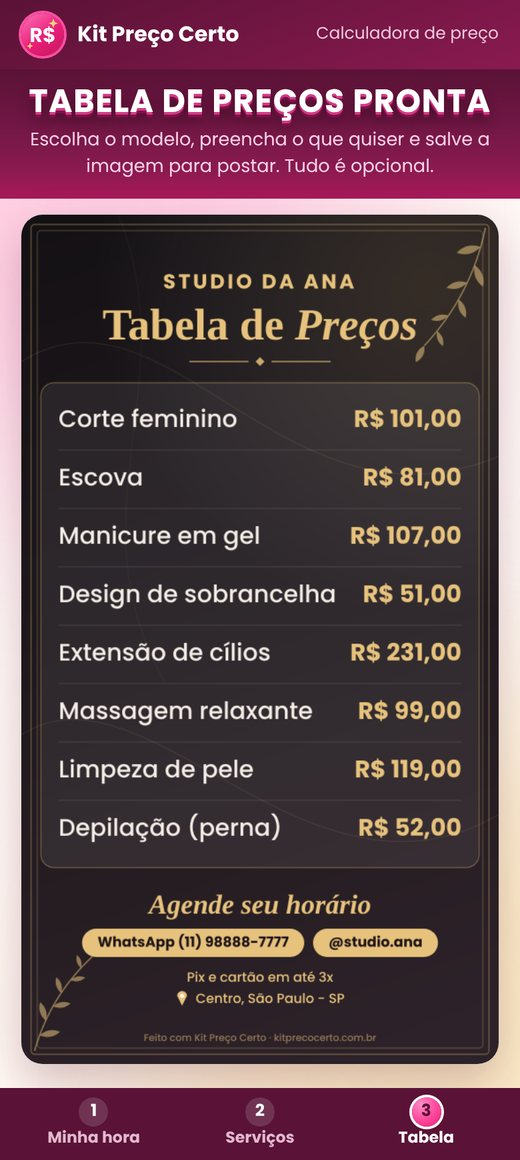
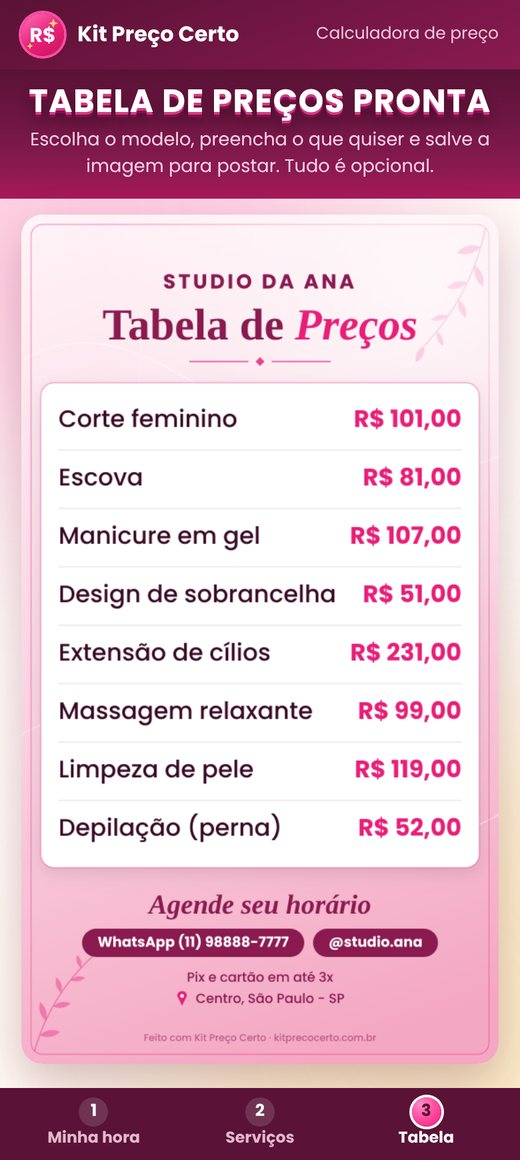
Passo 3 em Rosa; destaque branco passa para 'Sem prejuizo' e 'Personalizada' fica no estilo padrao
Claude-Session: https://claude.ai/code/session_01VVXSWQenri3WwETC67snQx

diff --git a/index.html b/index.html
@@ -82,7 +82,7 @@
           <p class="why"><b>Será que o seu preço de hoje paga o serviço inteiro?</b> Tempo, material, taxas, lucro... a calculadora mostra o valor certo e <b>quais serviços podem estar te dando prejuízo</b>.</p>
           <p class="out">Você descobre o preço certo, com lucro</p></li>
         <li><span class="n">3</span><h3>Tabela de Preços</h3><p class="q">Como mostrar os preços às clientes?</p>
-          <div class="sph"><img src="passo3.jpg?v=3" width="520" height="1160" alt="Tela do passo 3 da calculadora com a tabela de preços pronta para salvar (valores de exemplo)" loading="lazy"></div>
+          <div class="sph"><img src="passo3.jpg?v=4" width="520" height="1160" alt="Tela do passo 3 da calculadora com a tabela de preços pronta para salvar (valores de exemplo)" loading="lazy"></div>
           <p class="why"><b>Pronta para postar!</b> Escolha uma das 6 cores, coloque o seu nome e salve em <b>2 versões: Stories e Feed</b>. É só publicar no Instagram e passar o valor com segurança.</p>
           <p class="out">Você leva a tabela pronta, em Stories e Feed</p></li>
       </ol>
@@ -99,8 +99,8 @@
     </figure>
     <ul class="gains">
       <li class="sty"><svg viewBox="0 0 24 24"><use href="#i-tag"/></svg><span><b>6 estilos lindos para escolher</b>Em Stories (9:16) ou Feed (4:5), prontos para postar:<span class="chips cs6"><i><u style="background:#F4A7C3"></u>Rosa</i><i><u style="background:#8a1a50"></u>Vinho e dourado</i><i><u style="background:#2d2229"></u>Preto e dourado</i><i><u style="background:#CFA6E6"></u>Lilás</i><i><u style="background:#B3CFAE"></u>Verde sálvia</i><i><u style="background:#E2C2A3"></u>Nude</i></span></span></li>
-      <li class="key sty2"><svg viewBox="0 0 24 24"><use href="#i-heart"/></svg><span><b>Personalizada com a sua cara</b>A tabela fica com a sua identidade. Você coloca:<span class="chips"><i>Seu nome ou studio</i><i>Instagram</i><i>WhatsApp</i><i>Endereço</i><i>Formas de pagamento</i><i>Frase de chamada</i><i>Sua logo ou foto</i><i>Observações</i></span></span></li>
-      <li><svg viewBox="0 0 24 24"><use href="#i-check"/></svg><span><b>Sem prejuízo: inclui os custos que você esquece</b>Não é só material e tempo. A calculadora também considera:<span class="chips"><i>Aluguel</i><i>Luz e internet</i><i>Imposto</i><i>Maquininha</i><i>Horas sem cliente</i><i>Reposição de equipamentos</i><i>Reserva</i><i>O quanto você quer ganhar</i><i>etc.</i></span></span></li>
+      <li class="sty2"><svg viewBox="0 0 24 24"><use href="#i-heart"/></svg><span><b>Personalizada com a sua cara</b>A tabela fica com a sua identidade. Você coloca:<span class="chips"><i>Seu nome ou studio</i><i>Instagram</i><i>WhatsApp</i><i>Endereço</i><i>Formas de pagamento</i><i>Frase de chamada</i><i>Sua logo ou foto</i><i>Observações</i></span></span></li>
+      <li class="key"><svg viewBox="0 0 24 24"><use href="#i-check"/></svg><span><b>Sem prejuízo: inclui os custos que você esquece</b>Não é só material e tempo. A calculadora também considera:<span class="chips"><i>Aluguel</i><i>Luz e internet</i><i>Imposto</i><i>Maquininha</i><i>Horas sem cliente</i><i>Reposição de equipamentos</i><i>Reserva</i><i>O quanto você quer ganhar</i><i>etc.</i></span></span></li>
       <li><svg viewBox="0 0 24 24"><use href="#i-bulb"/></svg><span><b>O custo real da sua hora de trabalho</b>a calculadora faz essa conta por você e usa em todos os preços</span></li>
       <li><svg viewBox="0 0 24 24"><use href="#i-clock"/></svg><span><b>Direto no celular</b>sem instalar nada: abre no navegador, na hora</span></li>
       <li class="bonus"><svg viewBox="0 0 24 24"><use href="#i-sheet"/></svg><span><em>+ Bônus</em><b>Planilha Excel para o computador</b>com indicadores, gráficos e fórmulas prontas: é só preencher as células amarelas</span></li>

diff --git a/style.css b/style.css
@@ -1011,6 +1011,5 @@ a.btn.btn.btn.btn.ig:not(#dl){display:flex!important;align-items:center;justify-
 .deliver .gains li.sty .chips,.deliver .gains li.sty2 .chips{margin-top:10px}
 .cs6 i{display:inline-flex;align-items:center;gap:6px}
 .cs6 u{display:inline-block;width:14px;height:14px;border-radius:50%;border:1.5px solid #fff;box-shadow:0 0 0 1px rgba(138,26,80,.25);text-decoration:none}
-.deliver .gains li.sty2{background:#fff}
 .gains li .chips{display:flex;flex-wrap:wrap;gap:6px;margin-top:10px;justify-content:flex-start}
 .gains li .chips i{font-style:normal;font-size:.74rem;font-weight:600;color:#8a1a50;background:#fde3ee;border:1px solid #f4b6cf;border-radius:999px;padding:3px 10px;white-space:nowrap}
